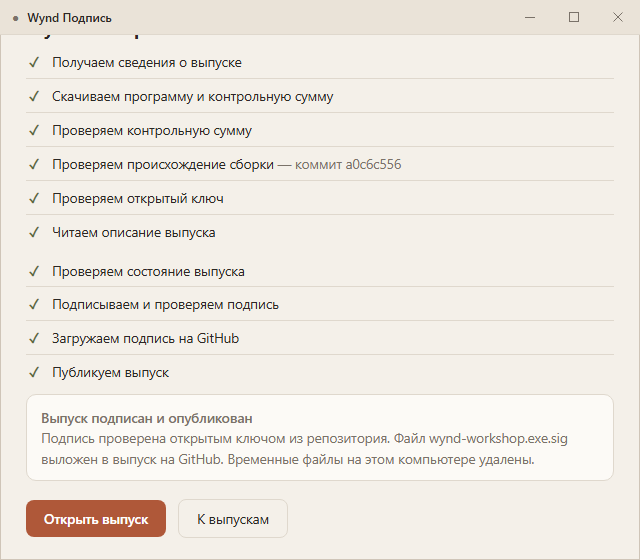
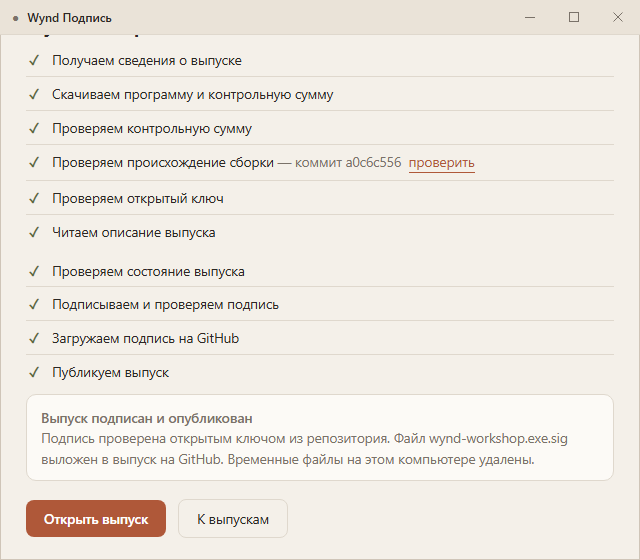
Подпись: 12г принят — снимок со ссылкой «проверить»

diff --git a/docs/testing/signer-frames-2026-11-17/README.md b/docs/testing/signer-frames-2026-11-17/README.md
@@ -7,11 +7,11 @@
 | `12a-klyucha-net.png` | 12а — ключа ещё нет: пароль и повтор, «Где хранить ключ», «Создать ключ» (неяркая, пока пароль короче 12 знаков) | `mock.html?key=missing` |
 | `12b-vypuski.png` | 12б — список выпусков: ключ и «другой», черновики с «подписать», опубликованный с подписью, «Подписать файл на этом компьютере» | `mock.html?products=workshop` |
 | `12v-proverka-chernovika.png` | 12в — выпуск 0.4.5 открыт: этапы проверки пройдены, у удостоверения сборки ссылка «проверить» на страницу удостоверений GitHub, поле пароля, «Что нового — из выпуска», «Подписать и опубликовать» | `...&open=workshop-v0.4.5` |
-| `12g-podpisan-opublikovan.png` | 12г — подпись прошла и выпуск опубликован; кадр у конца экрана, где итог и кнопки «Открыть выпуск» / «К выпускам» (экран длиннее окна) | `...&open=workshop-v0.4.5&pass=…&scroll=1` |
+| `12g-podpisan-opublikovan.png` | 12г — подпись прошла и выпуск опубликован; кадр у конца экрана, где итог и кнопки «Открыть выпуск» / «К выпускам» (экран длиннее окна); у удостоверения сборки та же ссылка «проверить» | `...&open=workshop-v0.4.5&pass=…&scroll=1` |
 | `12d-fayl-podpisan.png` | 12д — подписан файл на этом компьютере: путь .sig, «Показать в папке», «К выпускам» | `mock.html?file=1` |
 
 Старые кадры 12а–12д в галерее — черновики и утверждённой основой не являются. Приёмка — только явными словами владельца; после неё галерея `docs/visual/workshop.html` обновляется этими снимками.
 
-**Приёмка по одному:** 12а принят 18.11 вместе с уточнением текста — вместо «Программа принимает обновление…» стоит «программы Wynd, которые обновляются сами. Установленная копия принимает обновление…»; снимок 12а переснят из стенда и заменён. 12б принят 18.11 без замечаний. 12в принят 18.11 со ссылкой «проверить» у удостоверения сборки (12в переснят). Остальные кадры ждут приёмки.
+**Приёмка по одному:** 12а принят 18.11 вместе с уточнением текста — вместо «Программа принимает обновление…» стоит «программы Wynd, которые обновляются сами. Установленная копия принимает обновление…»; снимок 12а переснят из стенда и заменён. 12б принят 18.11 без замечаний. 12в принят 18.11 со ссылкой «проверить» у удостоверения сборки (12в переснят). 12г принят 18.11; снимок тоже переснят со ссылкой, чтобы кадры 12в и 12г отличались только прокруткой. Остальные кадры ждут приёмки.
 
 Снимки сделаны из текущего дерева (коммит-основа — `31695133`), стенд после съёмки остановлен.
